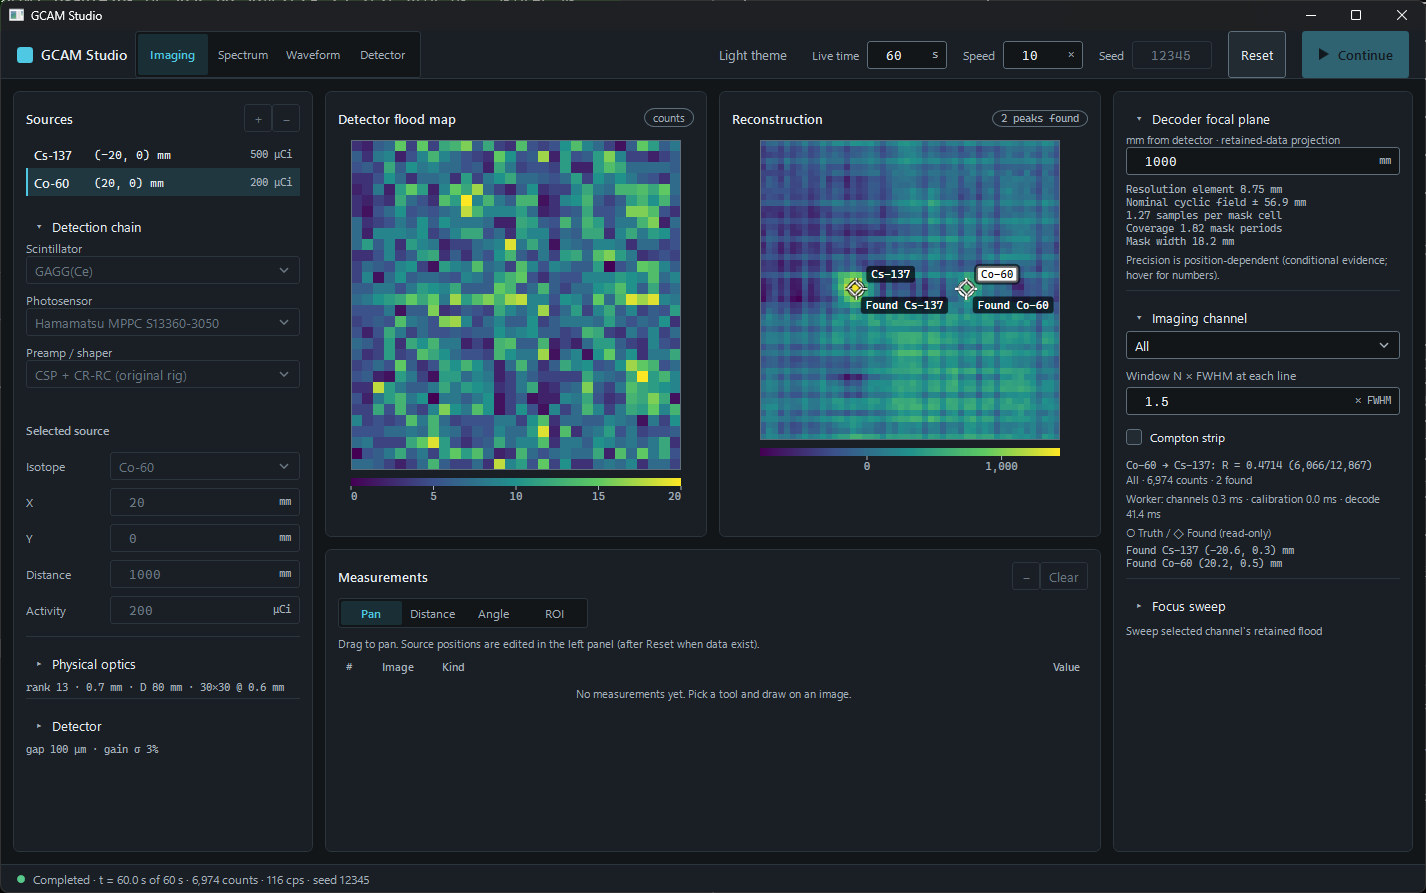
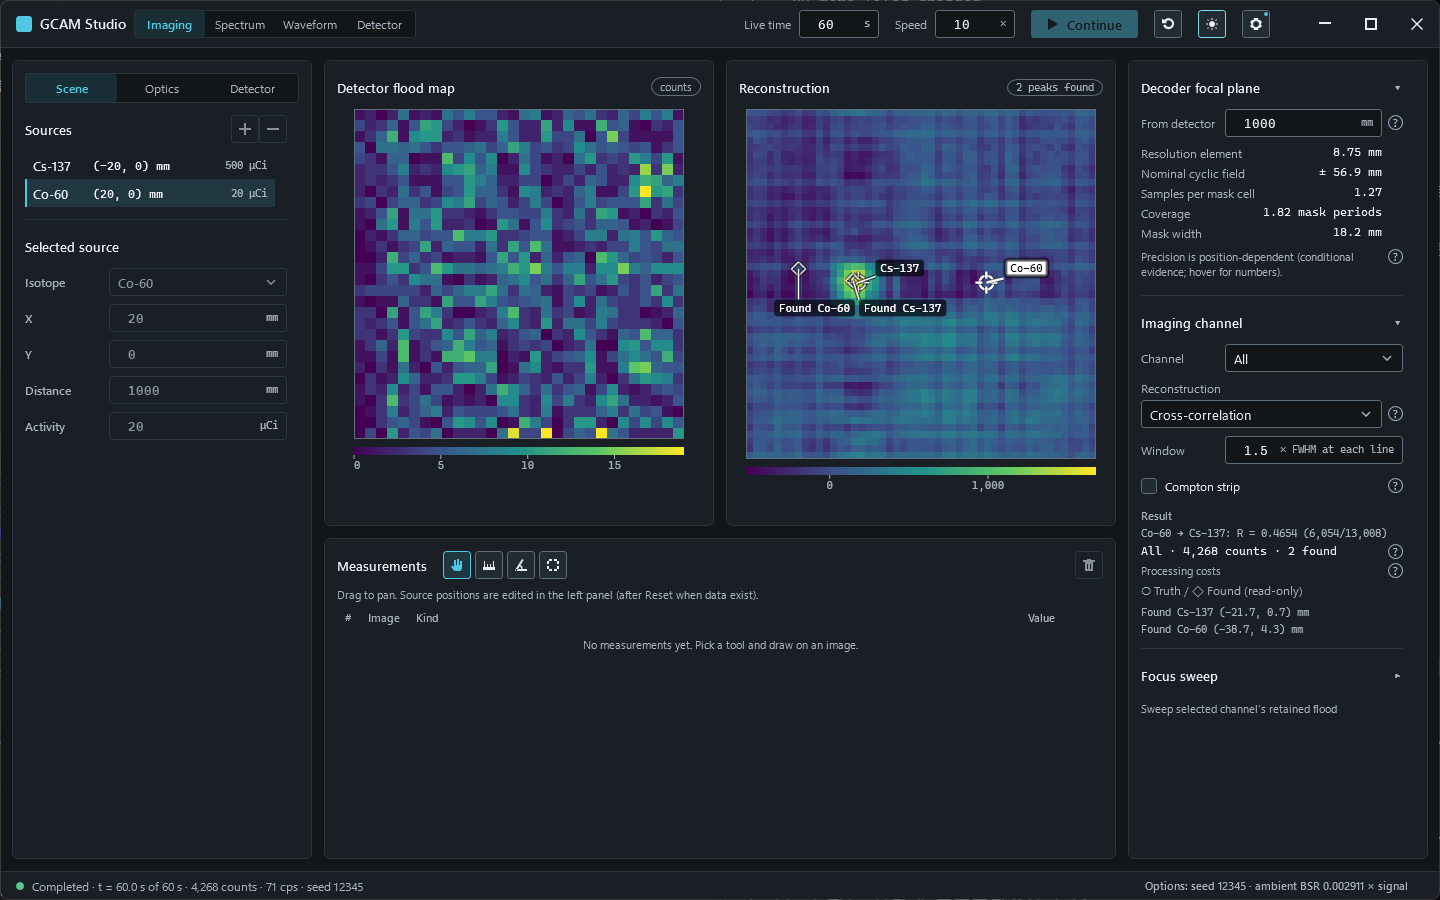
Docs: README screenshot is the refreshed 2026-10-13 Imaging capture
The README image is now the polish survey's imaging-dark-1440x900 (Cs-137 500 uCi + Co-60 20 uCi, 60 s, two
peaks found) from the 2026-10-13 desktop run; caption, survey README, UI-automation note and the
pending-desktop list in CLAUDE.md follow.

diff --git a/CLAUDE.md b/CLAUDE.md
@@ -70,11 +70,9 @@ Task state lives in **`docs/AGENTS.Todo.md`** (each row links its plan; the plan
 copy it here, it goes stale. Only what the Todo does not hold:
 - **Ambient background (TODO-30, done 2026-10-04):** the evidence register now quotes an absolute terrestrial field next to
   every ideal value it re-measured (EV-34); results not re-measured are still ideal-environment best cases.
-- Waiting for a free desktop (author's go): the desktop UI scenarios after TODO-30's Studio default and fixed spectrum
-  axis (list in `samples/evidence/results/ambient-baseline-v1-turn10.md`), and the README desktop screenshot that still
-  shows the old preset label "(original rig)" (TODO-29). PR-SENS-02's count gate is settled (measured gate, EV-34).
-  The TODO-44 / 45 stage-2 suite and TODO-42's scenarios passed on 2026-10-13 (`docs/VV.Studio.History.md`); still
-  open: the README screenshot retake, and a hands-on check of the tool Alt keys and Enter in the Options dialog.
+- Desktop (author's go each run): the whole desktop suite passed on 2026-10-13 after TODO-42 / 44 / 45
+  (`docs/VV.Studio.History.md`), and the README screenshot is now the refreshed polish-survey capture. PR-SENS-02's count
+  gate is settled (measured gate, EV-34). Still open: a hands-on check of the tool Alt keys and Enter in the Options dialog.
 - TODO-25 (depth likelihood) closed 2026-10-08 after a current-tree screening (Findings 62); its gate validation (≈ 190 h,
   resumable per condition) is parked in the Backlog; probe, recipes and summary in `samples/evidence/depthlik/`.
 - Codex conversations, worktrees (`C:\gw\…`) and probe outputs (`%TEMP%\gcam-*`) are machine-local: start new

diff --git a/docs/AGENTS.UiAutomation.md b/docs/AGENTS.UiAutomation.md
@@ -246,9 +246,9 @@ the pointer command path; it does not establish a keyboard-only or screen-reader
 Diagnostic survey: all four workspaces × both themes × 1280×800 / 1440×900 = 16 visible-frame PNGs,
 opened and inspected; reproduction and P-12 … P-16 observations in
 [survey README](assets/studio-polish-survey/README.md). No layout fixes. Representative two-isotope dark Imaging
-capture: [studio-desktop-imaging.png](assets/studio-desktop-imaging.png). The README image was separately retaken
-with Co-60 at 200 µCi (Cs-137 remains 500 µCi), all other scene / acquisition settings unchanged. Found peaks:
-Cs-137 (−20.6, 0.3), Co-60 (20.2, 0.5) mm; unrounded errors 0.676 / 0.546 mm versus one 8.75 mm resolution element.
+capture: [studio-desktop-imaging.png](assets/studio-desktop-imaging.png). The README image was then a separate capture
+with Co-60 at 200 µCi (found peaks Cs-137 (−20.6, 0.3), Co-60 (20.2, 0.5) mm); since 2026-10-13 it is a copy of the
+survey's `imaging-dark-1440x900.png`.
 Run `20261002-130331-aa0ebe` passed the truth-distance check before writing the capture; 6,974 acquired counts,
 exit 0, no sandbox writes. Reproduce only this image with `GCAM_UI_TESTS=1`, `GCAM_README_CAPTURE_ONLY=1` and
 `dotnet test tests/Gcam.Studio.UiTests -c Release --filter FullyQualifiedName~PolishSurveyTests`.

diff --git a/docs/assets/studio-polish-survey/README.md b/docs/assets/studio-polish-survey/README.md
@@ -13,10 +13,9 @@ Acquired 4,223 counts. Imaging uses All, N=1.5, strip off, 1000 mm focus; Wavefo
 10 µs window, real arrivals. The measurement table is empty. No focus sweep is displayed in this survey.
 
 Files: `{imaging,spectrum,waveform,detector}-{dark,light}-{1280x800,1440x900}.png`.
-The repository README uses a separate Imaging / dark / 1440×900
-[studio-desktop-imaging.png](../studio-desktop-imaging.png) capture, retaken with Co-60 at **200 µCi**;
-Cs-137 remains 500 µCi and the positions, distance, seed, live time and other settings are unchanged.
-It has 6,974 counts and found peaks Cs-137 (−20.6, 0.3) mm / Co-60 (20.2, 0.5) mm.
+Since 2026-10-13 the repository README image [studio-desktop-imaging.png](../studio-desktop-imaging.png) is a copy of
+this survey's `imaging-dark-1440x900.png` (Cs-137 500 µCi and Co-60 20 µCi, 60 s, seed 12345: 4,268 counts, two peaks
+found). Before that it was a separate capture with Co-60 at 200 µCi (2026-10-02).
 Their unrounded position errors, 0.676 / 0.546 mm, are below one 8.75 mm resolution element.
 Run `20261002-130331-aa0ebe`; hash and raw coordinates are in [desktop evidence](../studio-desktop-evidence.json).
 The 16 survey frames retain their original 20 µCi Co-60 scene. Their current hashes identify the planner's

diff --git a/README.md b/README.md
@@ -48,11 +48,11 @@ The full working log of all 70 study themes: [`docs/AGENTS.Findings.md`](docs/AG
 
 ## GCAM Studio
 
-Imaging workspace, Cs-137 500 µCi + Co-60 200 µCi at 1 m, dark theme (desktop capture):
+Imaging workspace, Cs-137 500 µCi at (−20, 0) mm + Co-60 20 µCi at (20, 0) mm, 1 m, 60 s, dark theme (desktop capture):
 
 ![GCAM Studio Imaging desktop with two isotope sources](docs/assets/studio-desktop-imaging.png)
 
-<sub>Captured 2026-10-02, before the 2026-10-13 redesign (themed caption, left tabs, Options dialog behind the cog).</sub>
+<sub>Captured 2026-10-13 by the polish-survey desktop scenario (`imaging-dark-1440x900.png`).</sub>
 
 GCAM Studio includes an experimental four-output GAGG readout. Set ambient and BSR to zero in Options → Environment,
 then in the left Detector tab select FourOutputAnger and Prepare before Start; each calibration line is offered or refused
